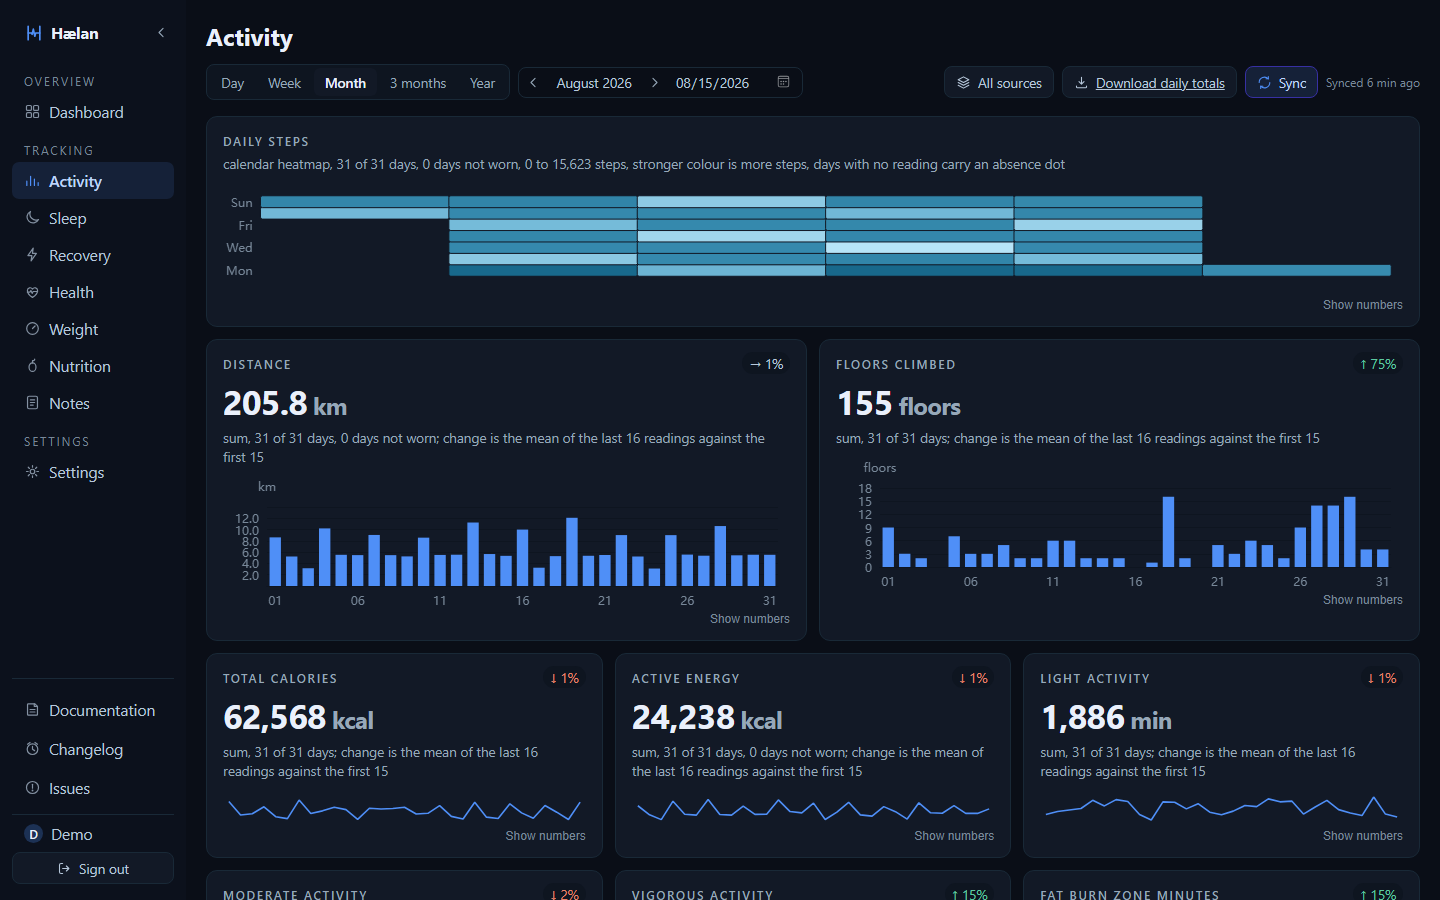
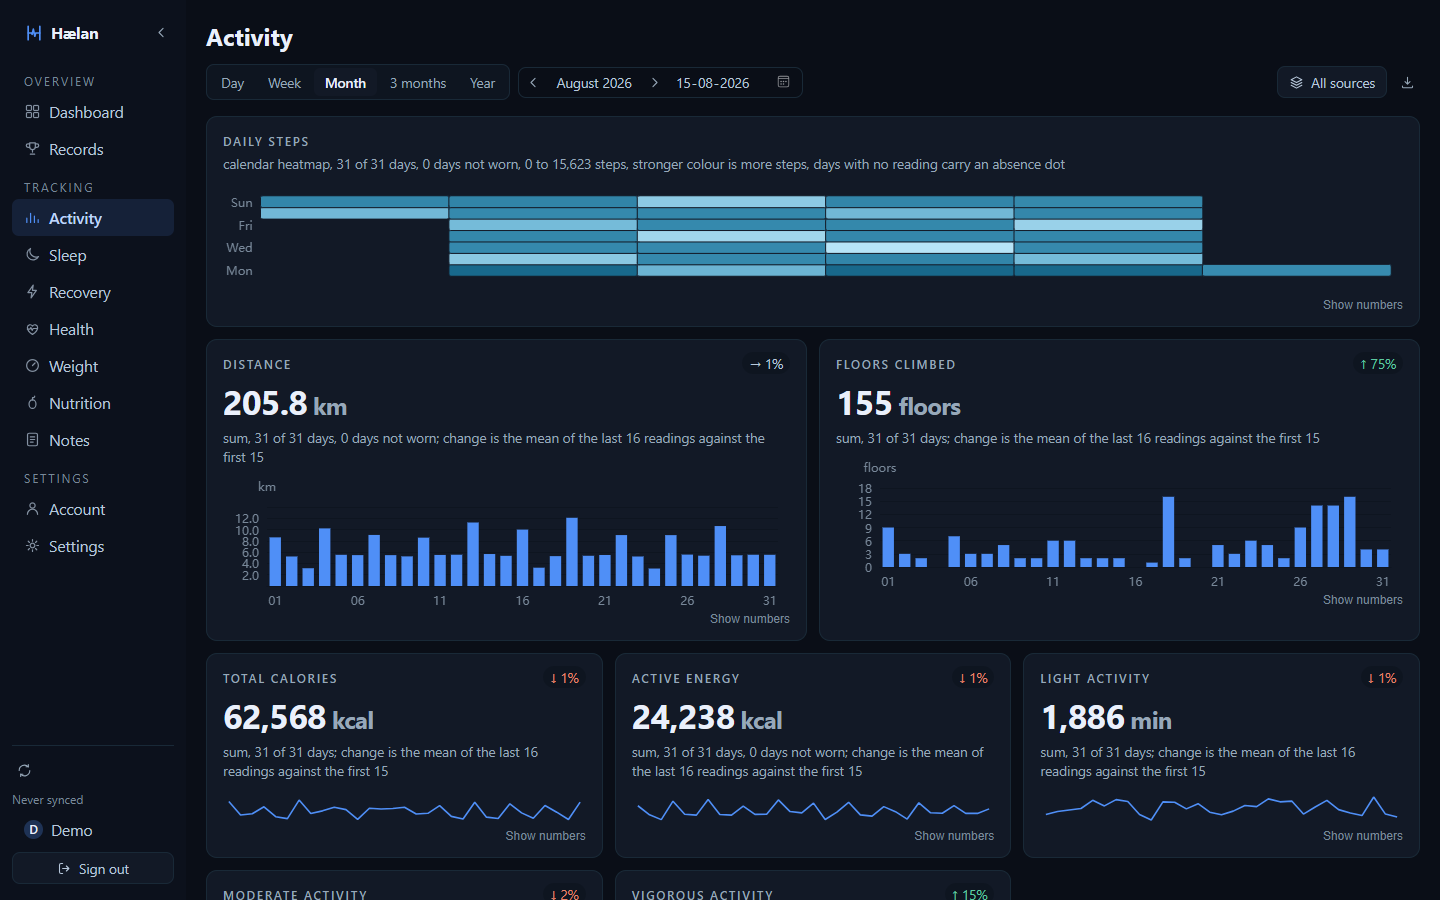
docs: retake the screenshots, and fix a singular that read as a plural (#331)
* fix(web): a window with one reading says "this 1 point", not "these 1 points"

The intraday basis sentence takes a count and never had a plural form, while
twenty-seven other keys in the same file do. Any workout or night whose window
carries a single reading read "these 1 points are the readings".

Found while taking a screenshot of the demo, where it is on screen under the
heart rate chart of the cycling workout.

Three tests asserted the sentence in full and so had the bug written into them,
which is why nothing was red. They now assert the singular.

* docs: retake the screenshots, which showed a layout that no longer exists

The four were taken on 2026-09-13, and thirty-two commits have touched the pages
and components since. The visible drift: sync moved out of the top control row
into the rail foot, so every one of them showed a control row nobody has, and the
rail's own links changed underneath it. The Recovery page gained the recovery
index and the four measures that move it, which is most of what that page now is,
and the dashboard leads with the same index. The old alt text for both described
pages that are not there any more, including an SpO2 card that no longer sits
where it said.

Taken against the deployed demo at 1440x900, English, dark, on August 2026 so the
month is full - the same range and framing the originals used. The demo banner is
hidden for the capture: it lives in apps/web/src/demo and a self-hosted instance
[…]

diff --git a/apps/web/test/night-traces.test.tsx b/apps/web/test/night-traces.test.tsx
@@ -150,7 +150,7 @@ describe('the overnight traces', () => {
       // full sentence, the same idiom workout-trace-card.test.tsx's own ".basis" assertion uses,
       // is what actually pins the wording.
       const expected = 'watch recorded no heart rate for this night, so this is every other device '
-        + 'instead; these 1 points are the readings'
+        + 'instead; this 1 point is the reading'
       // All three metrics need the second, unpinned request here, which is exactly the shape the
       // previous test's own comment on Windows timer granularity describes - flush() can settle a
       // poll early on the cached "nothing in flight" state while the component's own re-render is

diff --git a/site/index.html b/site/index.html
@@ -51,7 +51,7 @@
            second source. -->
       <div class="hero-shot">
         <a class="shot-link" href="#shot-dashboard">
-          <img src="screenshots/dashboard.png" alt="The Hælan dashboard: daily steps, resting heart rate, sleep and recovery, with charts for the month." width="1440" height="900" loading="eager" />
+          <img src="screenshots/dashboard.png" alt="The Hælan dashboard: a recovery index, daily steps, resting heart rate, sleep and mean heart rate, each with a chart for the month and a comparison against the period before it." width="1440" height="900" loading="eager" />
         </a>
       </div>
     </header>

diff --git a/apps/web/test/workout-page.test.tsx b/apps/web/test/workout-page.test.tsx
@@ -577,7 +577,7 @@ describe('the workout page\'s own ?source= parameter', () => {
       expect(traceCard, 'the trace card was absent').not.toBeUndefined()
       expect(traceCard?.querySelector('.basis')?.textContent).toBe(
         'Pixel Watch 4 recorded no heart rate in this window, so this is every other device instead; '
-        + 'these 1 points are the readings',
+        + 'this 1 point is the reading',
       )
     } finally { globalThis.fetch = original }
   })

diff --git a/apps/web/test/workout-trace-card.test.tsx b/apps/web/test/workout-trace-card.test.tsx
@@ -200,7 +200,7 @@ describe('the workout trace card', () => {
       // actually answered.
       expect(container?.querySelector('.basis')?.textContent).toBe(
         'My Watch recorded no heart rate in this window, so this is every other device instead; '
-        + 'these 1 points are the readings',
+        + 'this 1 point is the reading',
       )
     } finally { restore() }
   })

diff --git a/README.md b/README.md
@@ -46,7 +46,7 @@ catching them is a standing part of how the project is built rather than a past 
      page is built from. Do not edit between the markers by hand: a test regenerates this and fails
      when it disagrees. -->
 <!-- screenshots:start -->
-![The Hælan dashboard: daily steps, resting heart rate, sleep and recovery, with charts for the month.](assets/screenshots/dashboard.png)
+![The Hælan dashboard: a recovery index, daily steps, resting heart rate, sleep and mean heart rate, each with a chart for the month and a comparison against the period before it.](assets/screenshots/dashboard.png)
 
 ![The Activity page: a year heatmap of daily movement above a list of workouts, each with its distance, duration and average heart rate.](assets/screenshots/activity.png)
 
@@ -534,12 +534,12 @@ documents for whoever is building, not part of what ships.
 
 ## Translations
 
-The app ships English and Dutch, both complete at 996 keys. Locales are plain JSON
+The app ships English and Dutch, both complete at 997 keys. Locales are plain JSON
 (`apps/web/src/i18n/en.json`, `apps/web/src/i18n/nl.json`), imported and registered in a
 `resources` map in `apps/web/src/i18n/index.tsx`; `fallbackLng` is `en`. The language is derived
 from the browser's `navigator.language` - there is no in-app language switch.
 
-Adding one is three steps: copy `en.json`, translate its 996 keys, then import and register it
+Adding one is three steps: copy `en.json`, translate its 997 keys, then import and register it
 beside `en` and `nl`. Translate all of them. i18next falls back per key rather than per file, so a
 half-finished locale does not show the fallback language throughout - it shows one screen carrying
 two languages at once, which is worse than shipping no locale at all.
